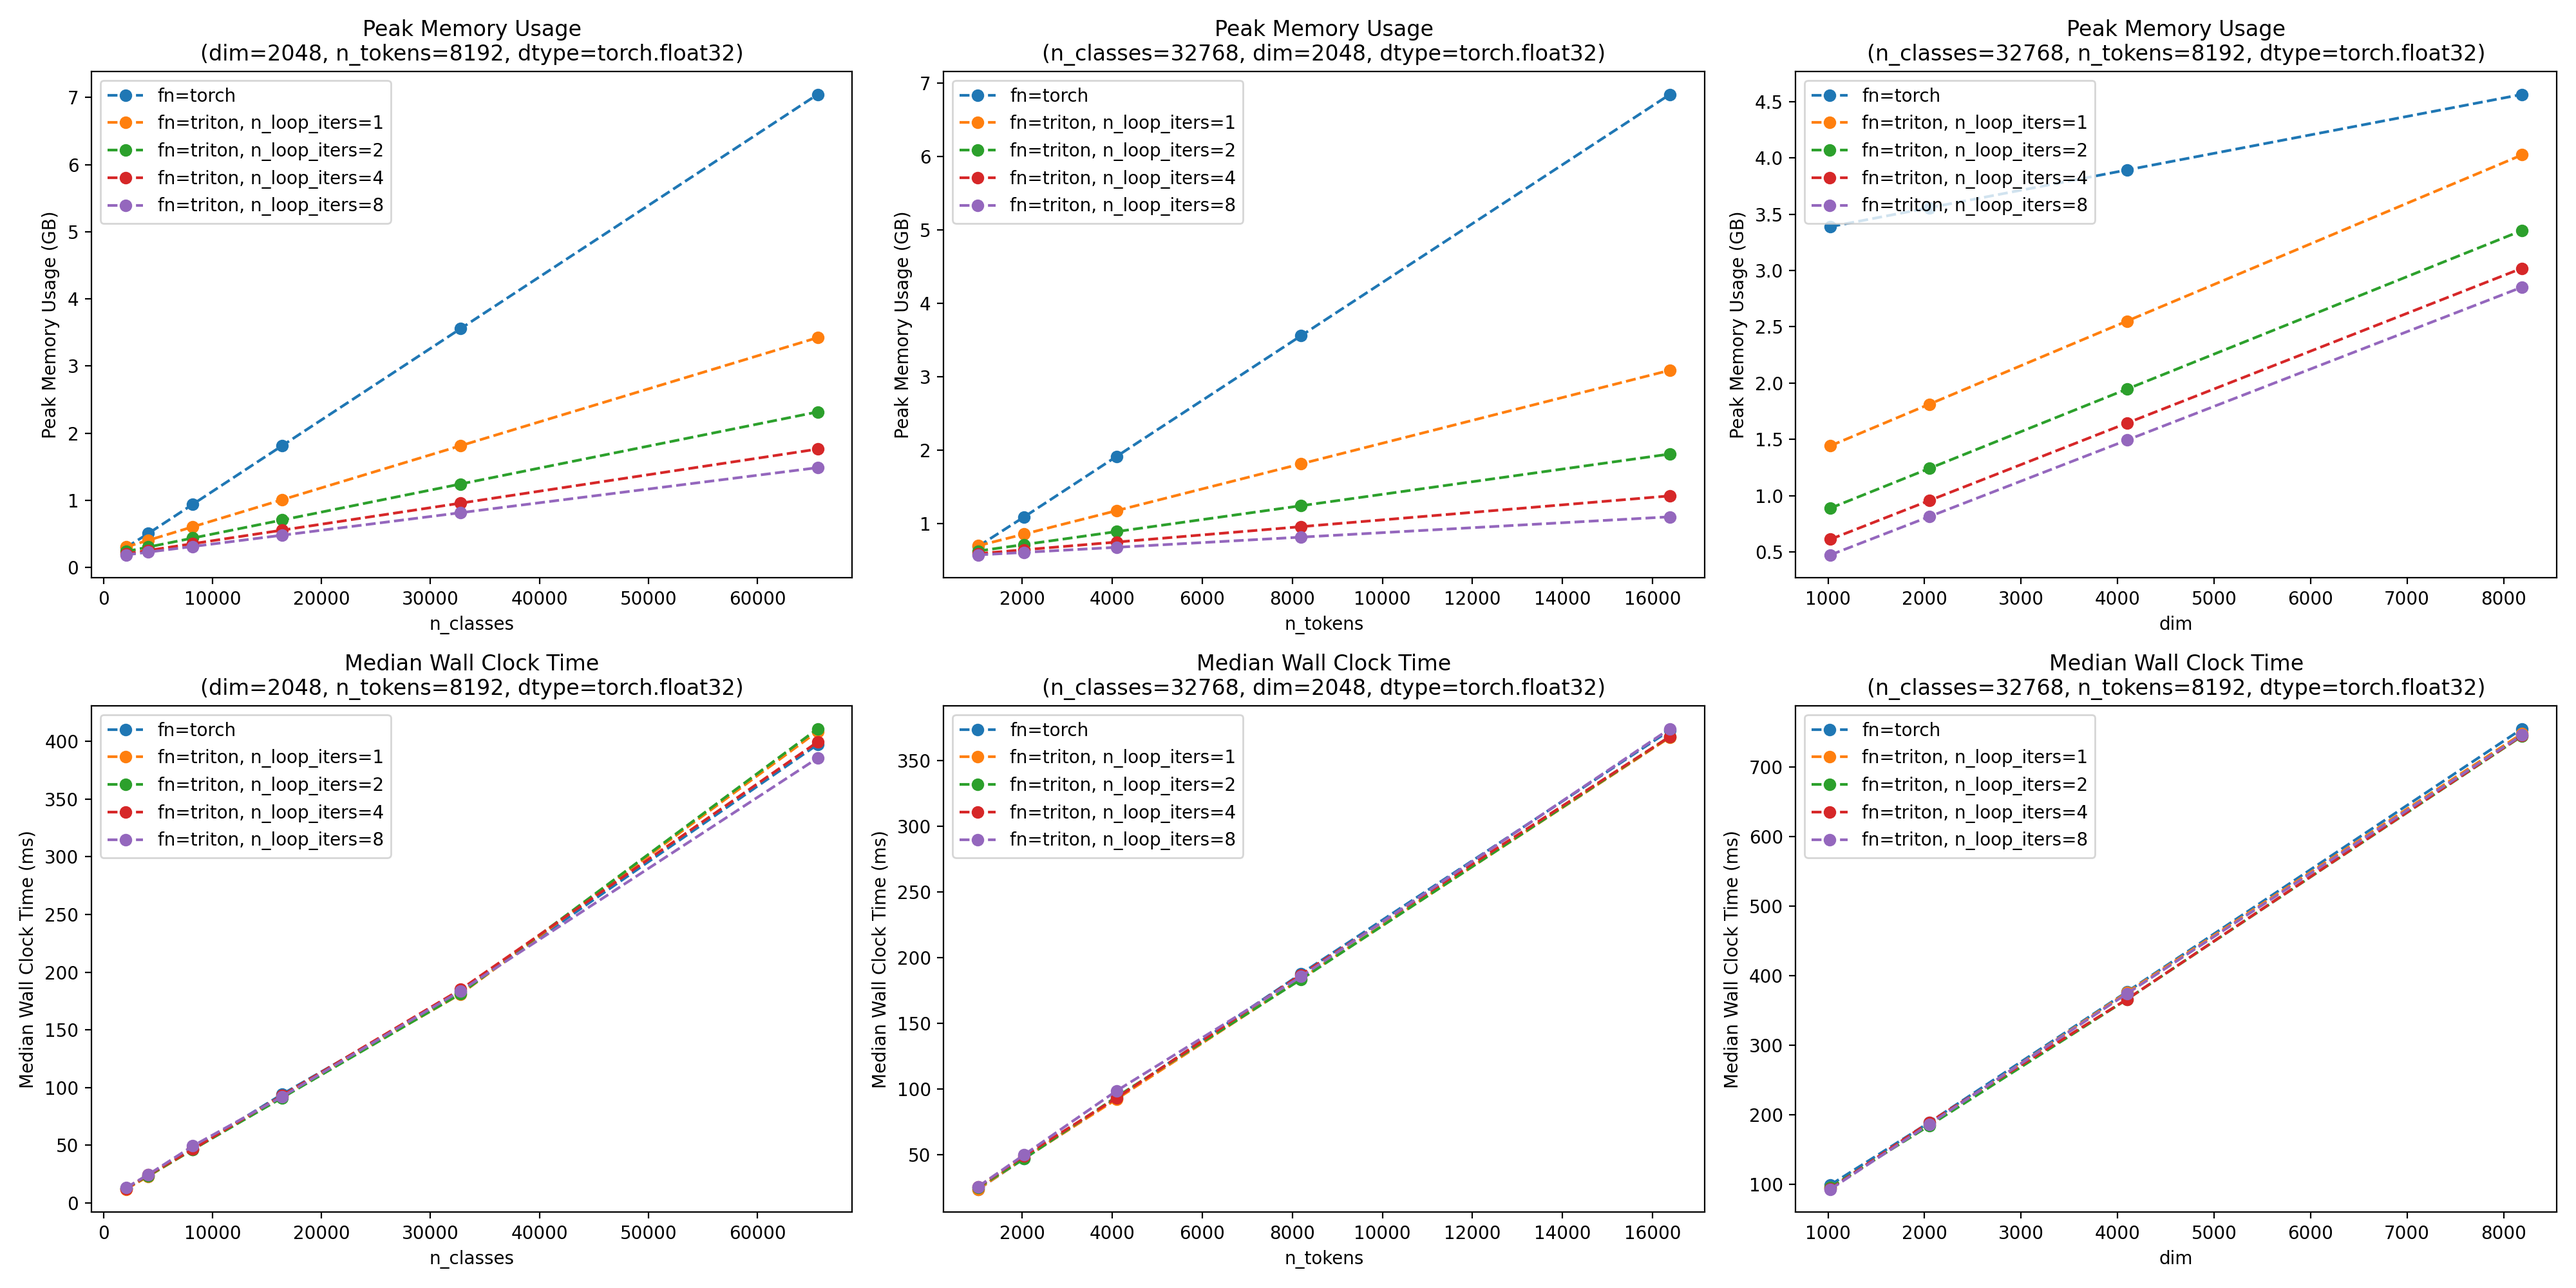
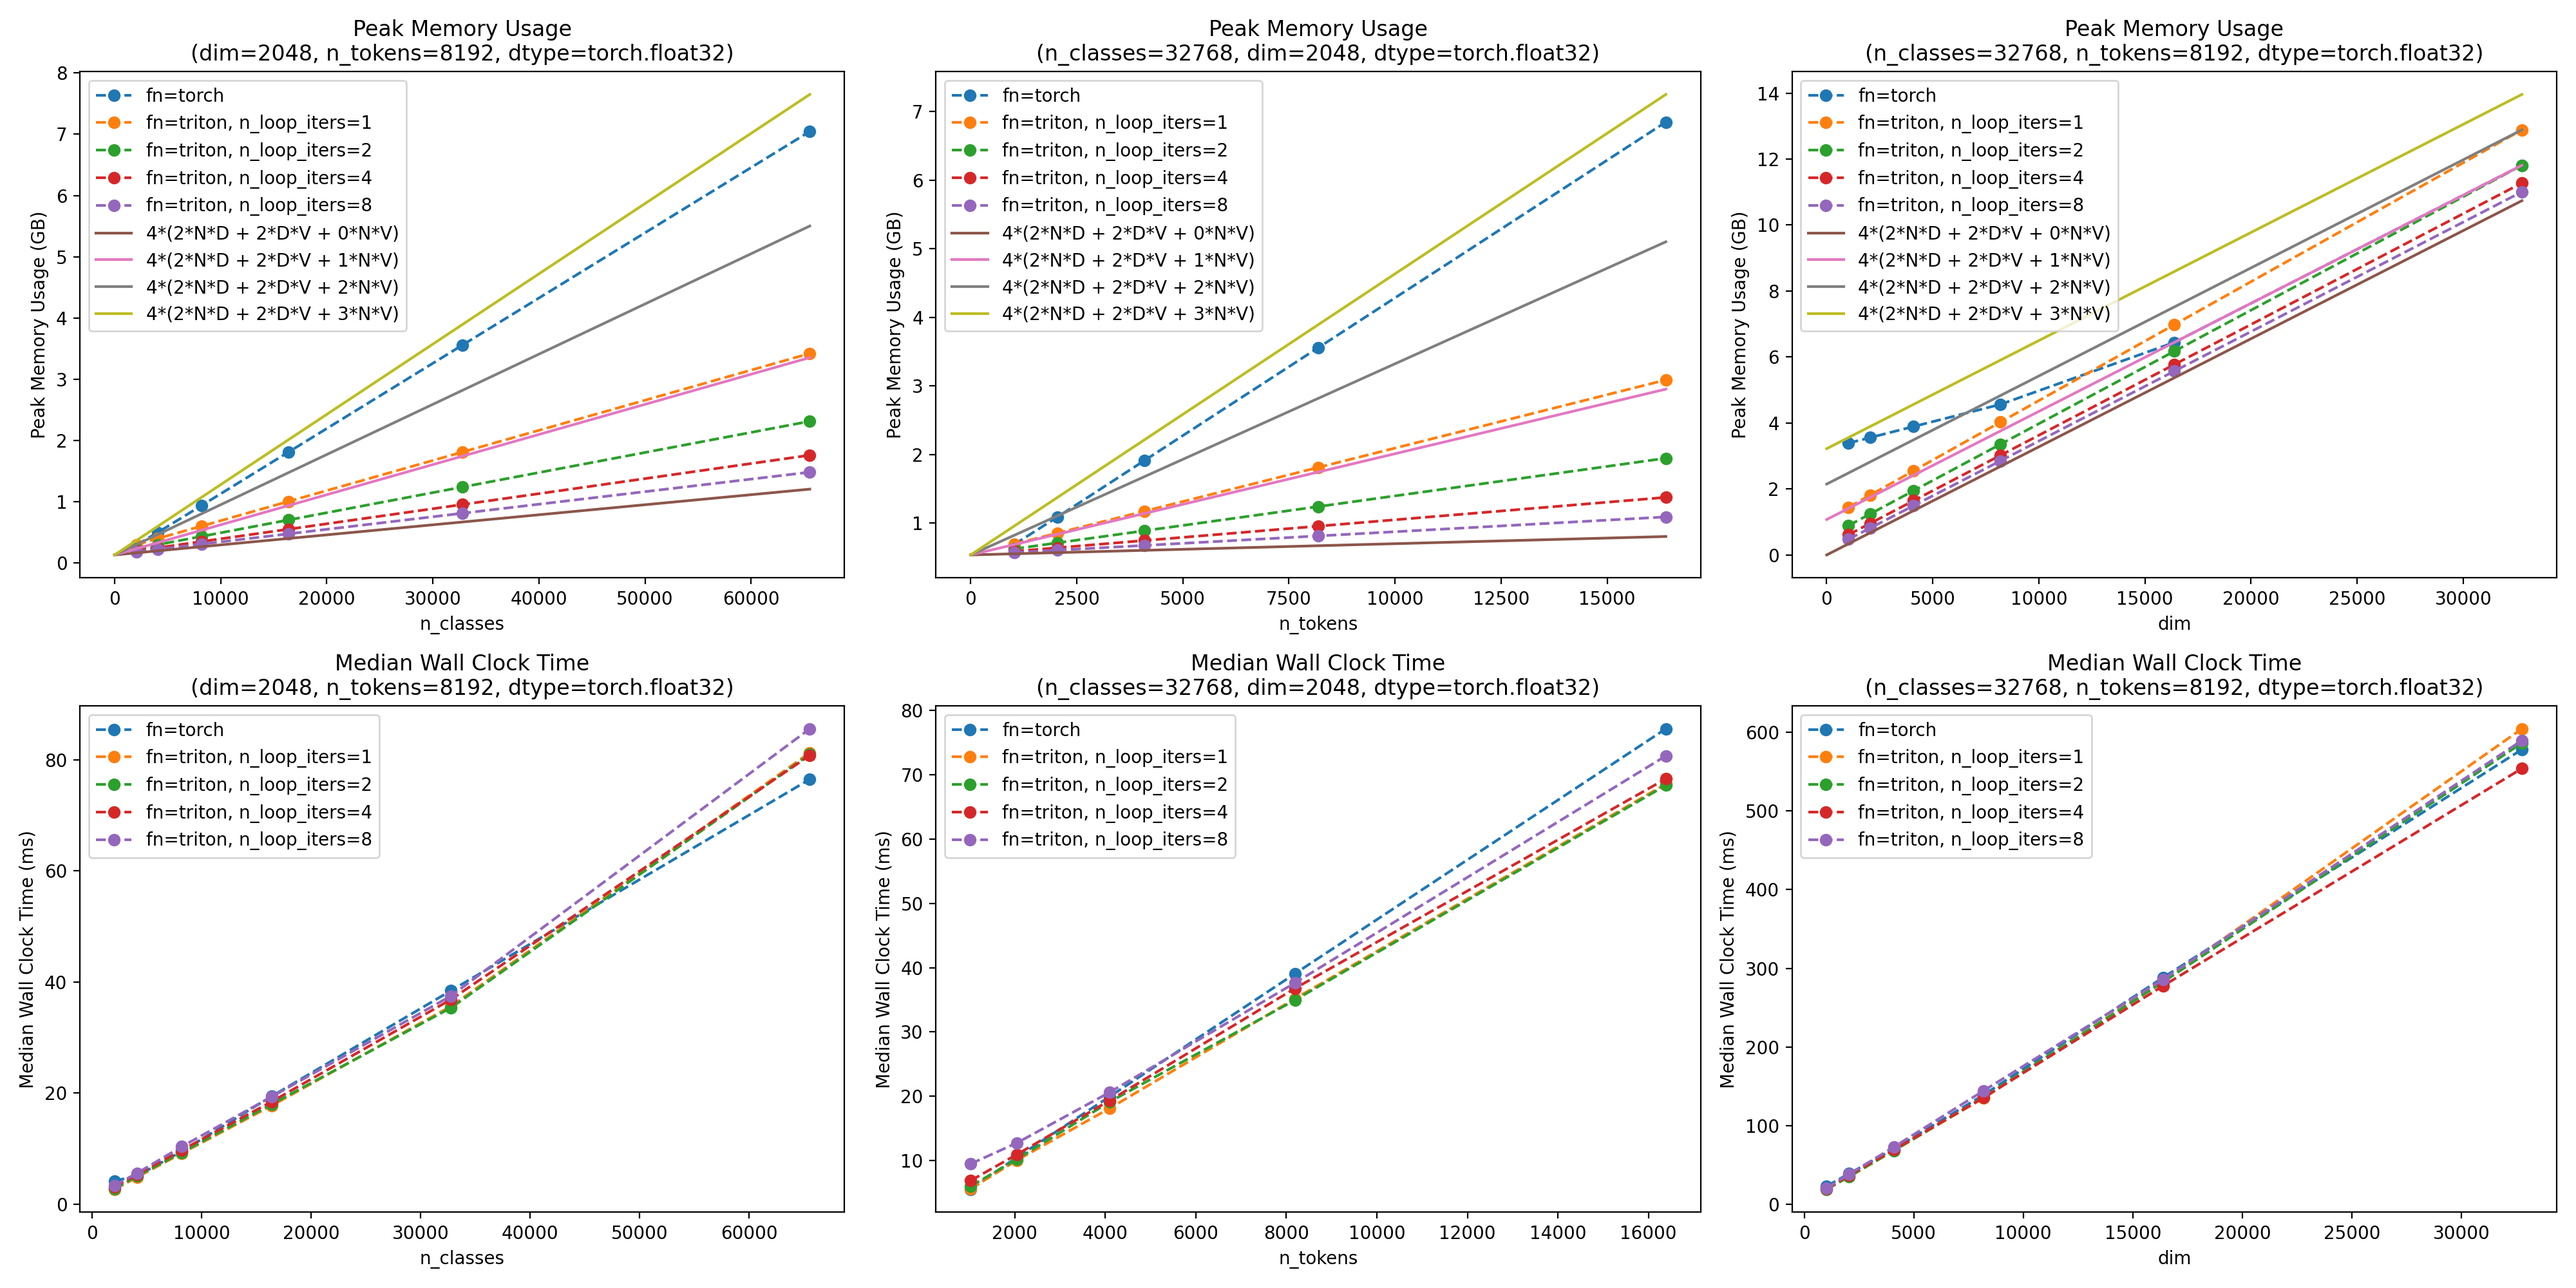
add theory lines to memory benchmarks

diff --git a/benchmark.py b/benchmark.py
@@ -17,6 +17,8 @@ from modules import (
 def _get_peak_memory_consumed(
     n_tokens, dim, n_classes, init_fn, dtype, device="cuda"
 ):
+    torch.cuda.synchronize()
+    torch.cuda.empty_cache()
     torch.cuda.reset_peak_memory_stats()
     initial_peak_mem_bytes = torch.cuda.max_memory_allocated(device=device)
 
@@ -27,6 +29,7 @@ def _get_peak_memory_consumed(
 
     _ = forward_fn(feat, targ).mean().backward()
 
+    torch.cuda.synchronize()
     final_peak_mem_bytes = torch.cuda.max_memory_allocated(device=device)
 
     peak_mem_consumed_bytes = final_peak_mem_bytes - initial_peak_mem_bytes
@@ -103,6 +106,24 @@ def run_test(
         mem_ax.plot(test_vals, peak_mems, "--o", label=line_label)
         time_ax.plot(test_vals, median_times, "--o", label=line_label)
 
+    test_vals = [0.0] + test_vals
+
+    for n in range(4):
+        peak_mems_theory = []
+        for test_val in test_vals:
+            params = {**test_constant_kwargs, test_key: test_val}
+            d = params["dim"]
+            V = params["n_classes"]
+            N = params["n_tokens"]
+            dtype = params["dtype"]
+            float_size =  {torch.float32: 4, torch.bfloat16: 2, torch.float16: 2}[dtype]
+
+            peak_mems_theory.append(float_size * (
+                2*N*d + 2*d*V + n*N*V # activations + weights + logits
+            ) / 1e9)
+
+        mem_ax.plot(test_vals, peak_mems_theory, "-", label=f'{float_size}*(2*N*D + 2*D*V + {n}*N*V)')
+
     for ax in (mem_ax, time_ax):
         ax.legend(loc="upper left")
 
@@ -149,7 +170,7 @@ def benchmark(line_configs, output_dir, debug):
 
     # Benchmark performance wrt dim
     test_key = "dim"
-    test_vals = [1024, 2048, 4096, 8192]
+    test_vals = [1024, 2048, 4096, 8192, 16384, 32768]
     test_constant_kwargs = dict(n_classes=32768, n_tokens=8192, dtype=torch.float32)
     df_dim = run_test(
         line_configs,

diff --git a/README.md b/README.md
@@ -17,10 +17,16 @@ These optimizations can reduce peak memory usage of a linear projection + cross-
 
 ## Performance Analysis
 
-Figure 1 plots the peak memory usage (top row) and median wall clock time (bottom row) before and after applying these optimizations.
+Figure 1 plots the peak memory usage (top row) and median wall clock time (bottom row) before and after applying these optimizations on an A100 GPU.
 
 ![Figure 1](benchmark_data/plots.png)
 **Figure 1 (generated by running `python ./benchmark.py`)**
+
+In the top row, the memory is compared to $4(2ND + 2DV + nNV)$, where 4 is the number of bytes in a float32, `N=n_tokens`, `D=dim`, and `V=n_classes`. The three terms account for the input tensor, the linear parameter weights, and the logits. The factors of two account for also storing the gradients. Four lines are plotted with $n=0,1,2,3$. The memory-efficient triton implemtation doesn't materialize the logits, and thus correspondes to $n=0$. The PyTorch memory usage seems to vary between $n=3$ for smaller $D$ and $n=1$ for larger $D$. Maybe for larger $D$, PyTorch more aggressively frees the memory used by the logits and logit gradients (and perhaps also the logit exponentials) during the backwards pass.
+
+PyTorch thus uses roughly
+$\frac{2ND + 2DV + nNV}{2ND + 2DV} = 1 + \frac{n}{2} \left( \frac{D}{V} + \frac{D}{N} \right)^{-1}$
+times more memory than the memory-efficient triton implemtation, with $1 \leq n \leq 3$. This is an asymptotic improvement when $D \ll V$ and $D \ll N$.
 
 ### Optimization 1: Overwrite logits with their gradients
 
